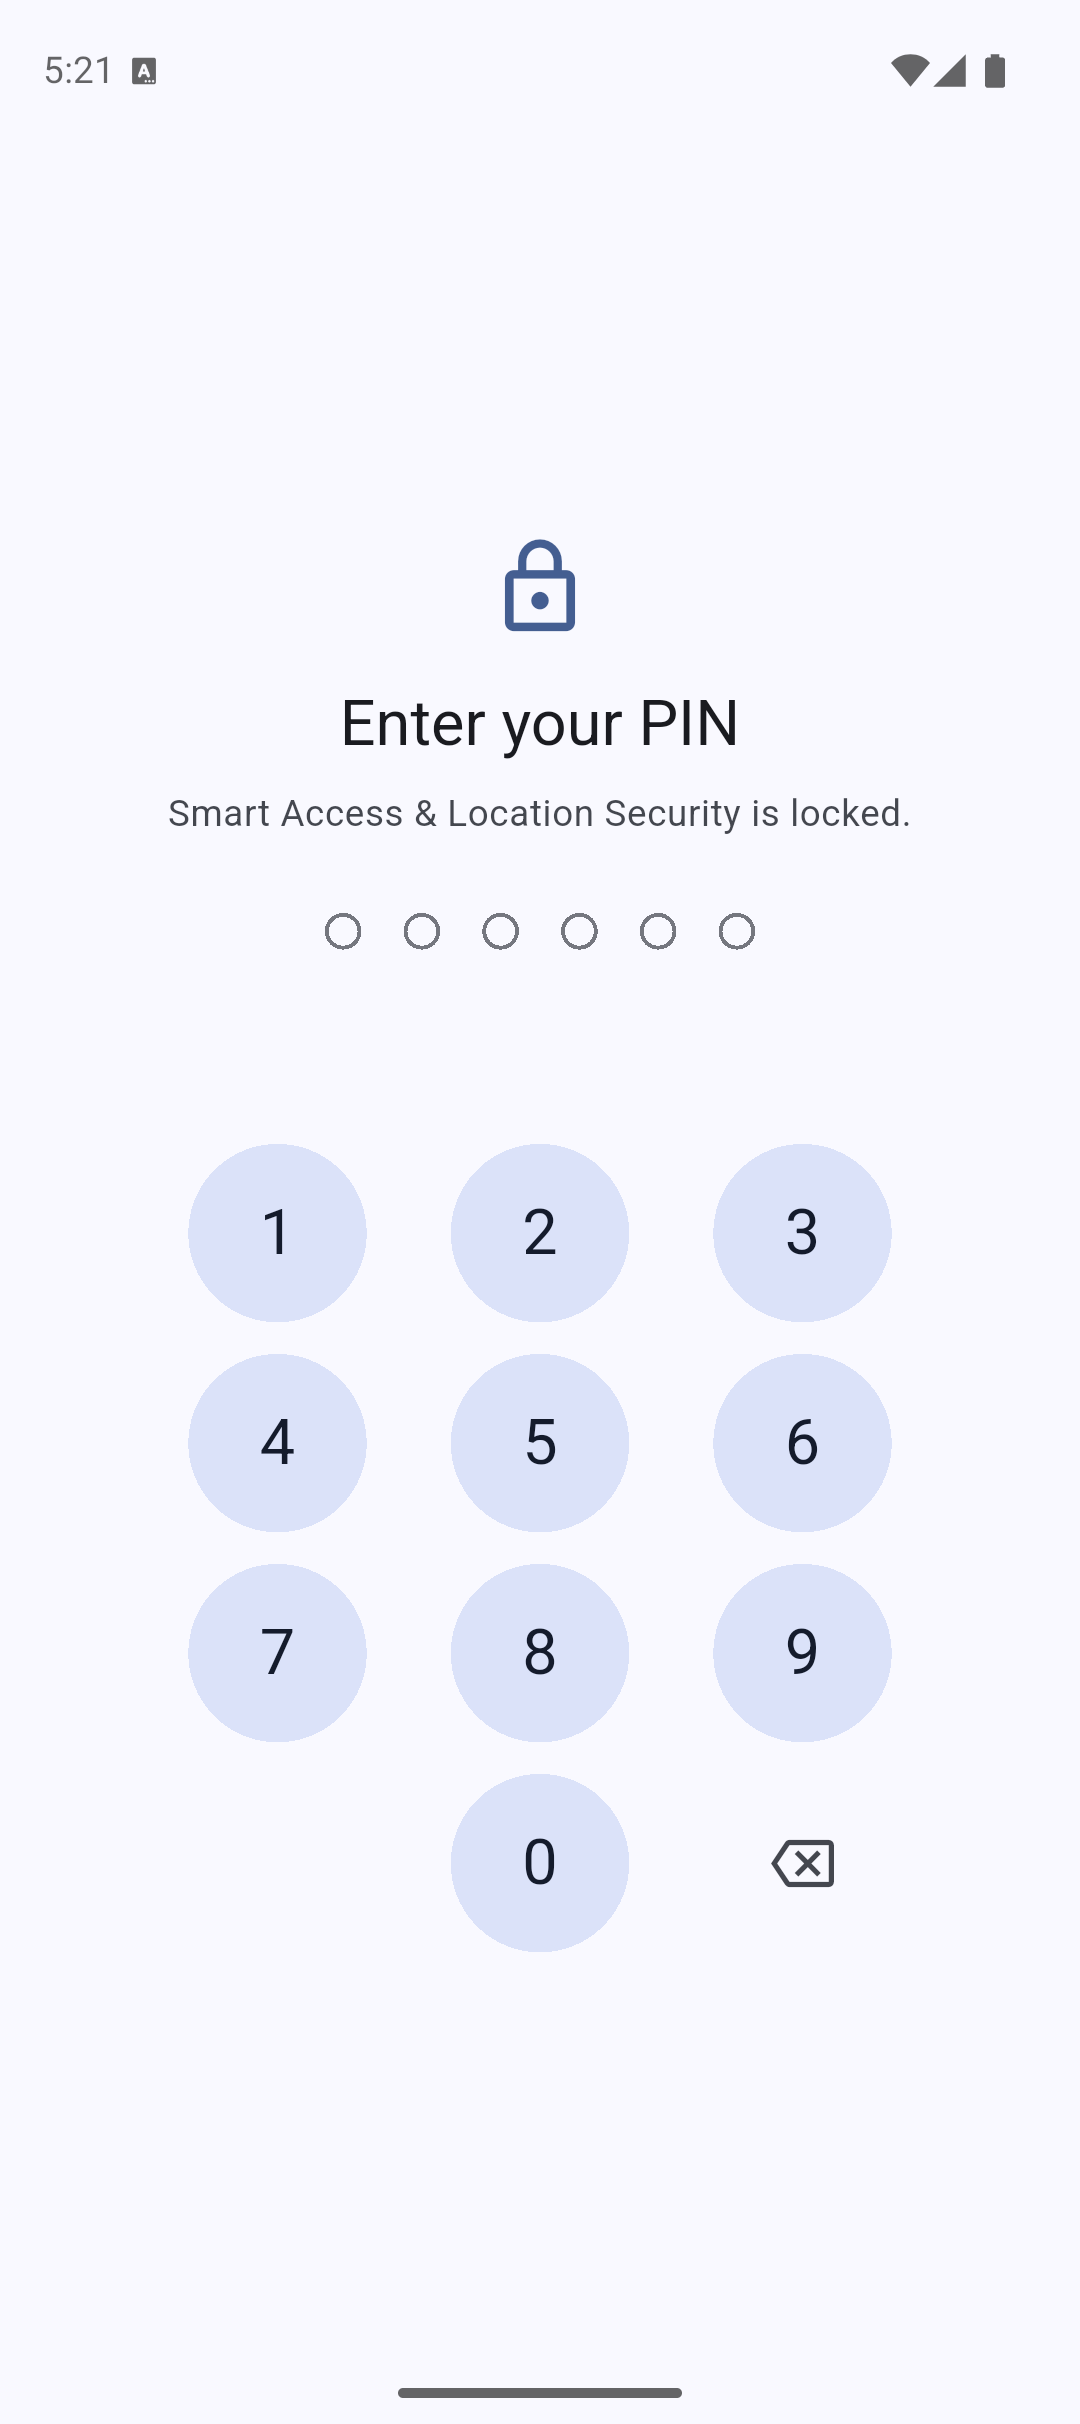
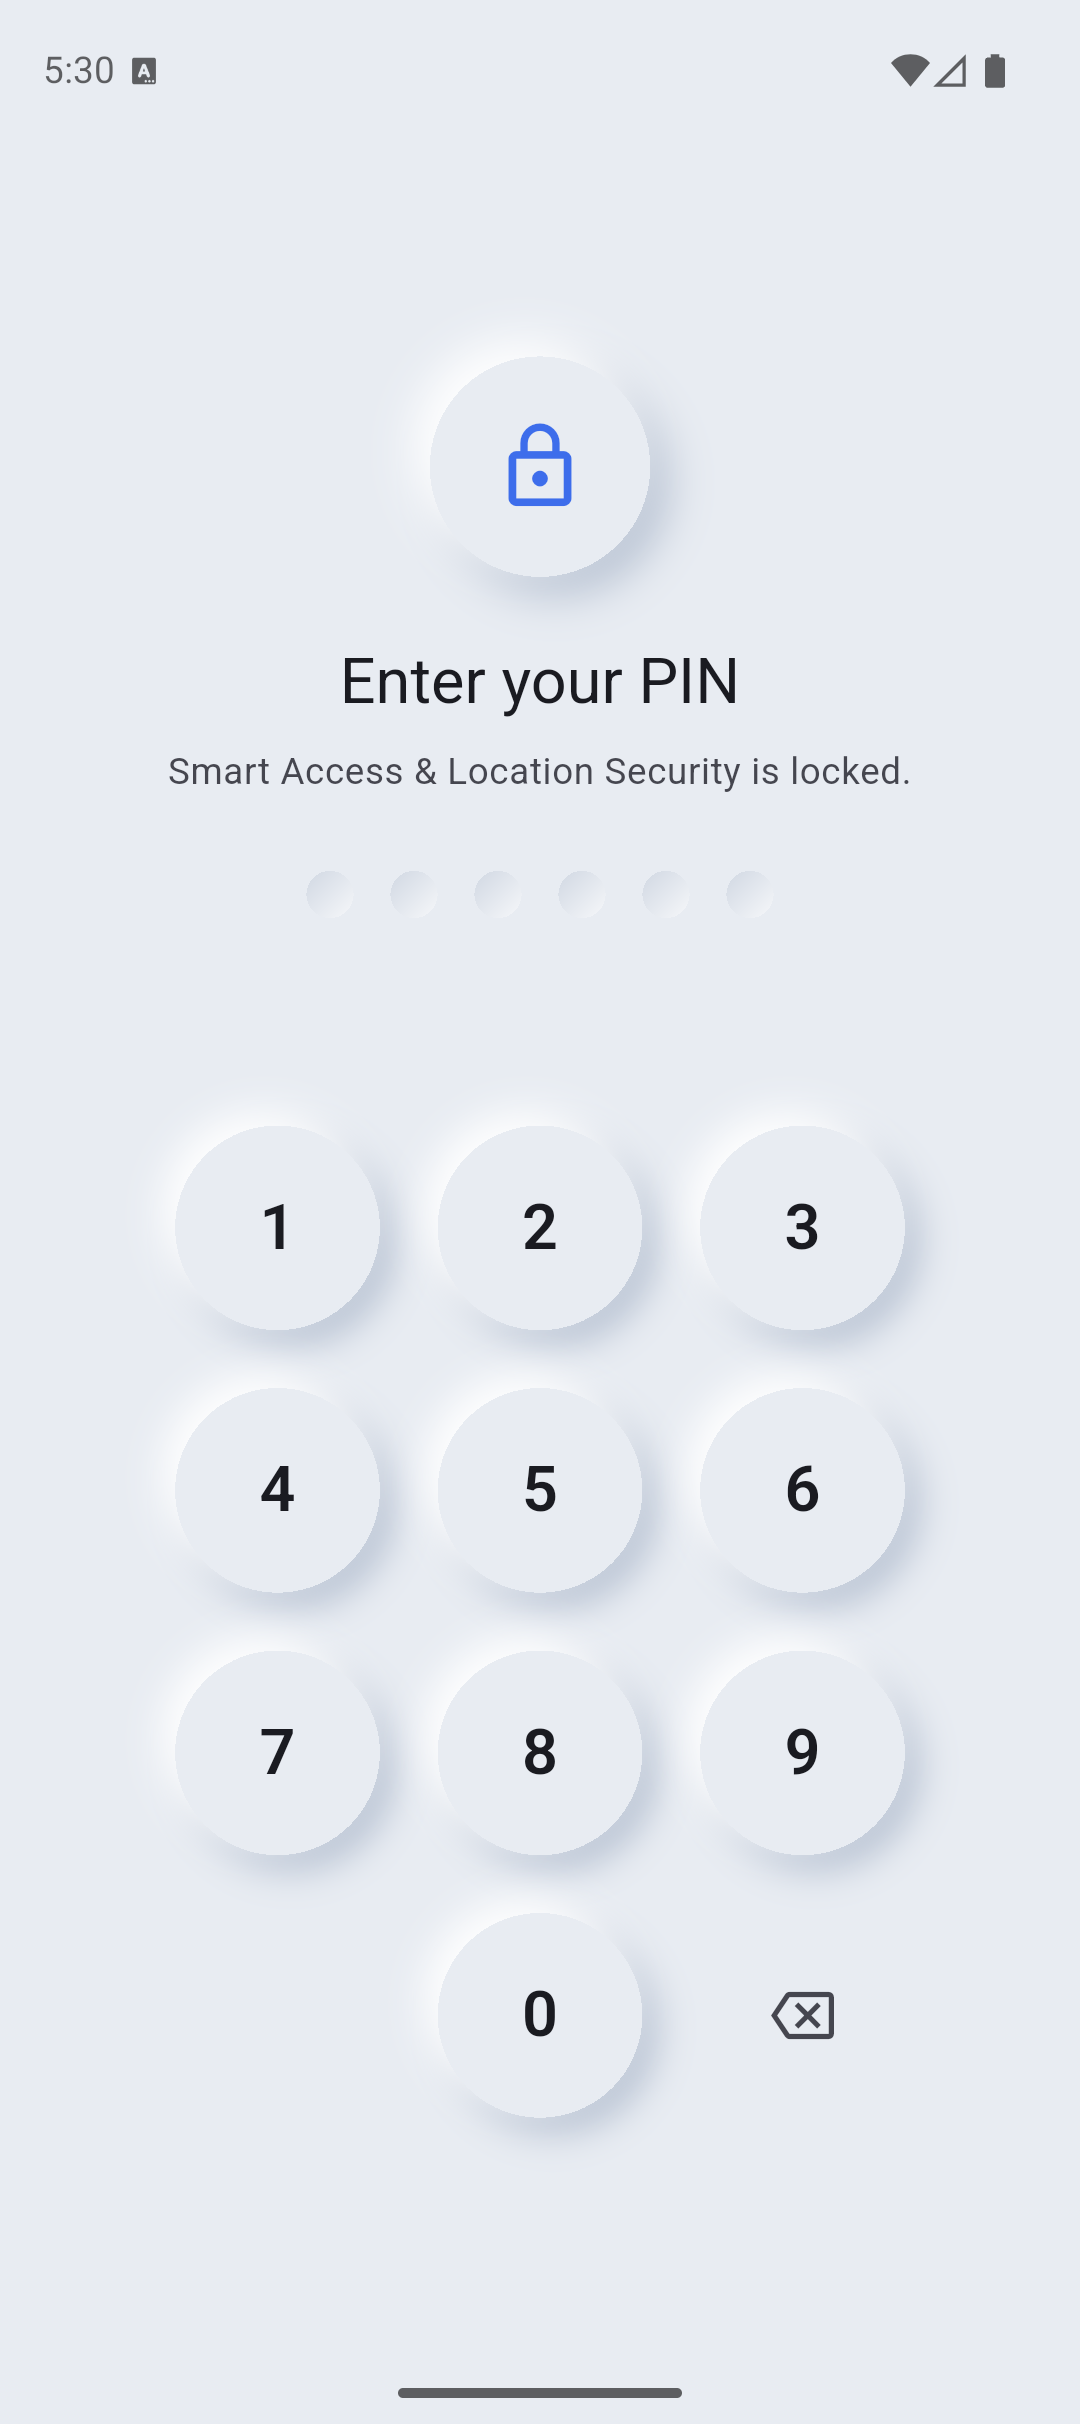
Fall back to built-in depth colours when a theme lacks the extension
Fixes the widget tests broken by the previous commit, which use a plain
MaterialApp theme.

diff --git a/lib/core/theme/app_theme.dart b/lib/core/theme/app_theme.dart
@@ -44,6 +44,11 @@ abstract final class AppTheme {
     shadow: Color(0xFF15171A),
   );
 
+  /// The depth colours that belong to [brightness].
+  static DepthTheme depthFor(Brightness brightness) {
+    return brightness == Brightness.light ? _lightDepth : _darkDepth;
+  }
+
   static ThemeData light() => _build(Brightness.light);
 
   static ThemeData dark() => _build(Brightness.dark);
@@ -51,7 +56,7 @@ abstract final class AppTheme {
   static ThemeData _build(Brightness brightness) {
     final isLight = brightness == Brightness.light;
     final base = isLight ? _lightBase : _darkBase;
-    final depth = isLight ? _lightDepth : _darkDepth;
+    final depth = depthFor(brightness);
     final scheme =
         ColorScheme.fromSeed(
           seedColor: _seed,
@@ -160,7 +165,12 @@ abstract final class AppTheme {
 
 /// Access to the depth colours from a [BuildContext].
 extension DepthContext on BuildContext {
-  DepthTheme get depth => Theme.of(this).extension<DepthTheme>()!;
+  /// Falls back to the built-in colours when a theme (for example in a
+  /// widget test) does not carry the extension.
+  DepthTheme get depth {
+    final theme = Theme.of(this);
+    return theme.extension<DepthTheme>() ?? AppTheme.depthFor(theme.brightness);
+  }
 }
 
 /// Semantic colours that are not part of [ColorScheme].
